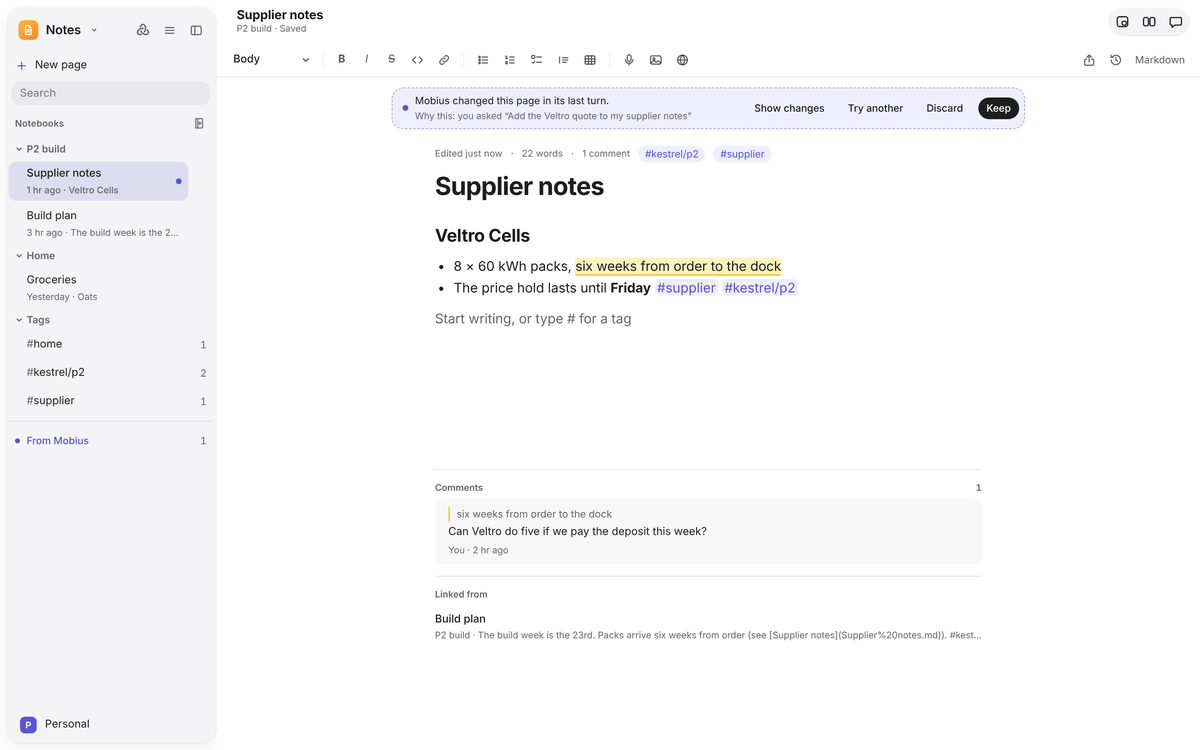
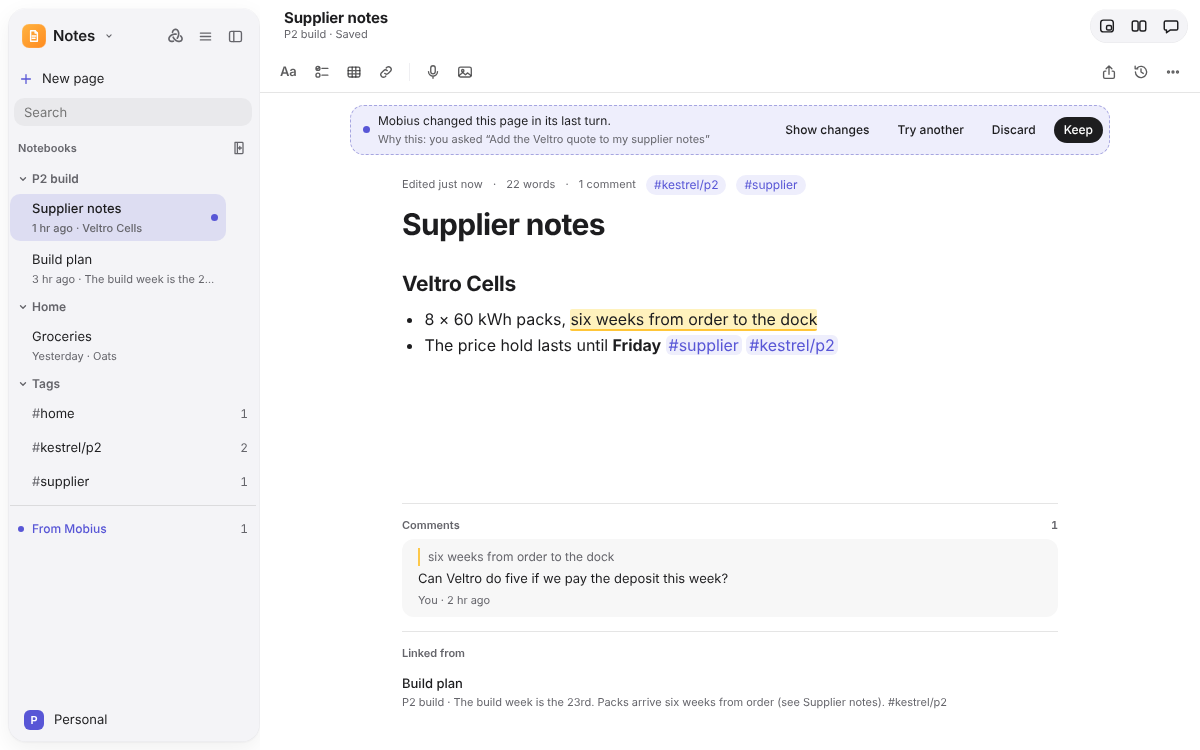
Notes: an Aa panel for styles and marks, a calmer format bar, and the writing hint only on empty pages (#34)
- Aa opens one panel with Title, Heading, Subheading and Body, then bold, italic, strikethrough, code, lists and quote,
  as in Apple Notes. The bar keeps Checklist, Table and Link, then Record and Picture; Share and History stay right.
- A More (...) menu holds Clip a web page and Show Markdown; the Markdown button shows only while that view is on.
- 'Start writing, or type # for a tag' shows only under an empty title, not on the empty line at the end of every page.
- Preview: a page's preview drops link markup, as the Rust list does.
- e2e, docs and the README screenshot follow.

Claude-Session: https://claude.ai/code/session_01VRGwo6hyLbLgse9wLW1PkV

diff --git a/apps/desktop/src/NoteEditor.tsx b/apps/desktop/src/NoteEditor.tsx
@@ -2,6 +2,8 @@ import { EmptyState } from './EmptyState';
 import { newItemIn } from './NotesSidebar';
 import { KEPT_EVENT, keepTurn, keptTurns, turnId } from './ReviewStrip';
 import { useEffect, useMemo, useRef, useState, type FormEvent } from 'react';
+import { createPortal } from 'react-dom';
+import { ContextMenu } from './ContextMenu';
 import { settleGone, settleIn, settleKept } from './settle';
 import { EditorContent, useEditor, useEditorState, type Editor } from '@tiptap/react';
 import { Extension } from '@tiptap/core';
@@ -120,10 +122,17 @@ const STYLES = [
   { id: 'h3', label: 'Subheading' },
 ] as const;
 
+/** The styles in the Aa panel, in the order Apple Notes lists them: biggest first. */
+const STYLES_SHOWN = [STYLES[1], STYLES[2], STYLES[3], STYLES[0]];
+
 /** The Markdown the editor holds, written as people write it: one blank line between blocks, a newline at the end. */
 const markdownOf = (e: Editor) => tidyMarkdown(e.getMarkdown());
 
-/** The format bar's buttons, with what they show as pressed. Off in Markdown, where the marks are typed. */
+/**
+ * The format bar, as in Apple Notes: Aa opens a panel with the text styles and marks, and the bar itself keeps only
+ * what is reached for while writing (checklist, table, link). The buttons show as pressed what the cursor is in.
+ * Off in Markdown, where the marks are typed.
+ */
 function FormatButtons({ editor, onLink }: { editor: Editor; onLink: () => void }) {
   const state = useEditorState({
     editor,
@@ -133,6 +142,14 @@ function FormatButtons({ editor, onLink }: { editor: Editor; onLink: () => void 
       bullet: e.isActive('bulletList'), ordered: e.isActive('orderedList'), task: e.isActive('taskList'), quote: e.isActive('blockquote'), table: e.isActive('table'),
     }),
   });
+  const [panel, setPanel] = useState(false);
+  const wrap = useRef<HTMLDivElement>(null);
+  useEffect(() => {
+    if (!panel) return;
+    const away = (e: PointerEvent) => { if (!wrap.current?.contains(e.target as Node | null)) setPanel(false); };
+    window.addEventListener('pointerdown', away);
+    return () => window.removeEventListener('pointerdown', away);
+  }, [panel]);
   const run = (f: (c: ReturnType<Editor['chain']>) => ReturnType<Editor['chain']>) => () => { f(editor.chain().focus()).run(); };
   const setStyle = (id: string) => {
     const chain = editor.chain().focus();
@@ -140,36 +157,52 @@ function FormatButtons({ editor, onLink }: { editor: Editor; onLink: () => void 
     else chain.setHeading({ level: Number(id.slice(1)) as 1 | 2 | 3 }).run();
   };
   const keep = (e: { preventDefault: () => void }) => e.preventDefault();
+  const marked = state.bold || state.italic || state.strike || state.code || state.style !== 'p' || state.bullet || state.ordered || state.quote;
   return (
     <>
-      <select aria-label="Paragraph style" value={state.style} onChange={(e) => setStyle(e.target.value)}>
-        {STYLES.map((s) => <option key={s.id} value={s.id}>{s.label}</option>)}
-      </select>
-      <span className="doc-tool-sep" />
-      <button type="button" className="doc-tool" aria-label="Bold" aria-pressed={state.bold} title="Bold (Ctrl+B)" onPointerDown={keep} onClick={run((c) => c.toggleBold())}><b>B</b></button>
-      <button type="button" className="doc-tool" aria-label="Italic" aria-pressed={state.italic} title="Italic (Ctrl+I)" onPointerDown={keep} onClick={run((c) => c.toggleItalic())}><i>I</i></button>
-      <button type="button" className="doc-tool" aria-label="Strikethrough" aria-pressed={state.strike} title="Strikethrough (Ctrl+Shift+S)" onPointerDown={keep} onClick={run((c) => c.toggleStrike())}><s>S</s></button>
-      <button type="button" className="doc-tool" aria-label="Code" aria-pressed={state.code} title="Code (Ctrl+E)" onPointerDown={keep} onClick={run((c) => c.toggleCode())}>
-        <svg viewBox="0 0 20 20" aria-hidden="true"><path d="M7.5 6 3.5 10l4 4M12.5 6l4 4-4 4" /></svg>
-      </button>
-      <button type="button" className="doc-tool" aria-label="Link" aria-pressed={state.link} title={state.link ? 'Remove the link' : 'Link'} onPointerDown={keep} onClick={() => (state.link ? editor.chain().focus().unsetLink().run() : onLink())}>
-        <svg viewBox="0 0 20 20" aria-hidden="true"><path d="M8.5 11.5a3 3 0 0 0 4.2 0l2.5-2.5a3 3 0 0 0-4.2-4.2l-.8.8M11.5 8.5a3 3 0 0 0-4.2 0L4.8 11a3 3 0 0 0 4.2 4.2l.8-.8" /></svg>
-      </button>
-      <span className="doc-tool-sep" />
-      <button type="button" className="doc-tool" aria-label="Bulleted list" aria-pressed={state.bullet} title="Bulleted list (Ctrl+Shift+8)" onPointerDown={keep} onClick={run((c) => c.toggleBulletList())}>
-        <svg viewBox="0 0 20 20" aria-hidden="true"><circle cx="5" cy="6" r="1" /><circle cx="5" cy="10" r="1" /><circle cx="5" cy="14" r="1" /><path d="M8.5 6h7M8.5 10h7M8.5 14h7" /></svg>
-      </button>
-      <button type="button" className="doc-tool" aria-label="Numbered list" aria-pressed={state.ordered} title="Numbered list (Ctrl+Shift+7)" onPointerDown={keep} onClick={run((c) => c.toggleOrderedList())}>
-        <svg viewBox="0 0 20 20" aria-hidden="true"><path d="M4 5h1.5v3M4 8h3M4 12.5c.5-.8 2.5-.8 2.5.3 0 .8-2.5 1.5-2.5 2.2h2.6M9.5 6h6M9.5 10h6M9.5 14h6" /></svg>
-      </button>
+      <div className="note-aa" ref={wrap}>
+        <button type="button" className="doc-tool note-aa-btn" aria-label="Format text" title="Styles, bold, italic and lists" aria-haspopup="dialog" aria-expanded={panel} data-marked={marked || undefined} onPointerDown={keep} onClick={() => setPanel((o) => !o)}>
+          <span aria-hidden="true">Aa</span>
+        </button>
+        {panel && (
+          <div className="note-aa-panel glass" role="dialog" aria-label="Text format" onKeyDown={(e) => { if (e.key === 'Escape') { e.stopPropagation(); setPanel(false); editor.commands.focus(); } }}>
+            <div className="note-aa-styles" role="group" aria-label="Paragraph style">
+              {STYLES_SHOWN.map((s) => (
+                <button key={s.id} type="button" className="note-aa-style" data-style={s.id} aria-pressed={state.style === s.id} onPointerDown={keep} onClick={() => setStyle(s.id)}>{s.label}</button>
+              ))}
+            </div>
+            <div className="note-aa-row">
+              <div className="note-aa-group" role="group" aria-label="Marks">
+                <button type="button" className="doc-tool" aria-label="Bold" aria-pressed={state.bold} title="Bold (Ctrl+B)" onPointerDown={keep} onClick={run((c) => c.toggleBold())}><b>B</b></button>
+                <button type="button" className="doc-tool" aria-label="Italic" aria-pressed={state.italic} title="Italic (Ctrl+I)" onPointerDown={keep} onClick={run((c) => c.toggleItalic())}><i>I</i></button>
+                <button type="button" className="doc-tool" aria-label="Strikethrough" aria-pressed={state.strike} title="Strikethrough (Ctrl+Shift+S)" onPointerDown={keep} onClick={run((c) => c.toggleStrike())}><s>S</s></button>
+                <button type="button" className="doc-tool" aria-label="Code" aria-pressed={state.code} title="Code (Ctrl+E)" onPointerDown={keep} onClick={run((c) => c.toggleCode())}>
+                  <svg viewBox="0 0 20 20" aria-hidden="true"><path d="M7.5 6 3.5 10l4 4M12.5 6l4 4-4 4" /></svg>
+                </button>
+              </div>
+              <div className="note-aa-group" role="group" aria-label="Lists">
+                <button type="button" className="doc-tool" aria-label="Bulleted list" aria-pressed={state.bullet} title="Bulleted list (Ctrl+Shift+8)" onPointerDown={keep} onClick={run((c) => c.toggleBulletList())}>
+                  <svg viewBox="0 0 20 20" aria-hidden="true"><circle cx="5" cy="6" r="1" /><circle cx="5" cy="10" r="1" /><circle cx="5" cy="14" r="1" /><path d="M8.5 6h7M8.5 10h7M8.5 14h7" /></svg>
+                </button>
+                <button type="button" className="doc-tool" aria-label="Numbered list" aria-pressed={state.ordered} title="Numbered list (Ctrl+Shift+7)" onPointerDown={keep} onClick={run((c) => c.toggleOrderedList())}>
+                  <svg viewBox="0 0 20 20" aria-hidden="true"><path d="M4 5h1.5v3M4 8h3M4 12.5c.5-.8 2.5-.8 2.5.3 0 .8-2.5 1.5-2.5 2.2h2.6M9.5 6h6M9.5 10h6M9.5 14h6" /></svg>
+                </button>
+                <button type="button" className="doc-tool" aria-label="Quote" aria-pressed={state.quote} title="Quote (Ctrl+Shift+B)" onPointerDown={keep} onClick={run((c) => c.toggleBlockquote())}>
+                  <svg viewBox="0 0 20 20" aria-hidden="true"><path d="M5 6v8M9 7h7M9 10h7M9 13h5" /></svg>
+                </button>
+              </div>
+            </div>
+          </div>
+        )}
+      </div>
       <button type="button" className="doc-tool" aria-label="Checklist" aria-pressed={state.task} title="Checklist (Ctrl+Shift+9)" onPointerDown={keep} onClick={run((c) => c.toggleTaskList())}>
-        <svg viewBox="0 0 20 20" aria-hidden="true"><rect x="3.5" y="4" width="4" height="4" rx="1" /><path d="m4.3 13.2 1 1 1.9-2.2M10 6h6.5M10 13h6.5" /></svg>
-      </button>
-      <button type="button" className="doc-tool" aria-label="Quote" aria-pressed={state.quote} title="Quote (Ctrl+Shift+B)" onPointerDown={keep} onClick={run((c) => c.toggleBlockquote())}>
-        <svg viewBox="0 0 20 20" aria-hidden="true"><path d="M5 6v8M9 7h7M9 10h7M9 13h5" /></svg>
+        <svg viewBox="0 0 20 20" aria-hidden="true"><circle cx="5.5" cy="6" r="2.2" /><path d="m4.4 6 .8.8 1.4-1.6" /><circle cx="5.5" cy="13.5" r="2.2" /><path d="M10 6h6.5M10 13.5h6.5" /></svg>
       </button>
       <button type="button" className="doc-tool" aria-label="Table" aria-pressed={state.table} title={state.table ? 'Delete table' : 'Insert table'} onPointerDown={keep} onClick={run((c) => (state.table ? c.deleteTable() : c.insertTable({ rows: 3, cols: 2, withHeaderRow: true })))}>
         <svg viewBox="0 0 20 20" aria-hidden="true"><rect x="3.5" y="4.5" width="13" height="11" rx="1.5" /><path d="M3.5 8.5h13M3.5 12h13M8 4.5v11M12 4.5v11" /></svg>
+      </button>
+      <button type="button" className="doc-tool" aria-label="Link" aria-pressed={state.link} title={state.link ? 'Remove the link' : 'Link to a note or a web page (or type [[)'} onPointerDown={keep} onClick={() => (state.link ? editor.chain().focus().unsetLink().run() : onLink())}>
+        <svg viewBox="0 0 20 20" aria-hidden="true"><path d="M8.5 11.5a3 3 0 0 0 4.2 0l2.5-2.5a3 3 0 0 0-4.2-4.2l-.8.8M11.5 8.5a3 3 0 0 0-4.2 0L4.8 11a3 3 0 0 0 4.2 4.2l.8-.8" /></svg>
       </button>
       {state.table && (
         <>
@@ -233,7 +266,9 @@ export function NoteEditor({ notes, autoFocus = true, onSelection, review }: { n
       TaskList,
       TaskItem.configure({ nested: true }),
       Markdown,
-      Placeholder.configure({ placeholder: ({ node }) => (node.type.name === 'heading' ? 'Title' : 'Start writing, or type # for a tag') }),
+      // The hints are for a page still to be written: an empty title, and the first line under it. A page with words
+      // in it shows none, so the empty line kept at its end does not read as a prompt.
+      Placeholder.configure({ placeholder: ({ editor: e, node, pos }) => (node.type.name === 'heading' ? (pos === 0 ? 'Title' : '') : e.state.doc.childCount <= 2 ? 'Start writing, or type # for a tag' : '') }),
       NoteTags,
       image,
       commentMarks,
@@ -366,6 +401,7 @@ export function NoteEditor({ notes, autoFocus = true, onSelection, review }: { n
   const caret = useRef<number | null>(null);
   useEffect(() => { caret.current = null; }, [path]);
   const [clipping, setClipping] = useState<string | null>(null);
+  const [more, setMore] = useState<{ x: number; y: number } | null>(null);
   const [linking, setLinking] = useState<string | null>(null);
   const [insertProblem, setInsertProblem] = useState<string | null>(null);
   const recordedFor = useRef(0);
@@ -584,9 +620,6 @@ export function NoteEditor({ notes, autoFocus = true, onSelection, review }: { n
                 <input ref={picker} type="file" multiple hidden aria-label="Choose files to add" onChange={(e) => { const files = [...(e.target.files ?? [])]; e.target.value = ''; void addFiles(files); }} />
               </>
             )}
-            <button type="button" className="doc-tool" aria-label="Clip from web" title="Clip a web page into this page" aria-expanded={clipping !== null} onPointerDown={keep} onClick={() => setClipping((c) => (c === null ? '' : null))}>
-              <svg viewBox="0 0 20 20" aria-hidden="true"><circle cx="10" cy="10" r="6.5" /><path d="M3.5 10h13M10 3.5c-2 2-2.8 4.2-2.8 6.5s.8 4.5 2.8 6.5M10 3.5c2 2 2.8 4.2 2.8 6.5s-.8 4.5-2.8 6.5" /></svg>
-            </button>
           </div>
           <span className="spacer" />
           <div className="note-share">
@@ -614,7 +647,18 @@ export function NoteEditor({ notes, autoFocus = true, onSelection, review }: { n
               <svg viewBox="0 0 20 20" aria-hidden="true"><path d="M3.8 10a6.2 6.2 0 1 0 1.9-4.5M3.5 3.5v3h3M10 6.5V10l2.5 1.6" /></svg>
             </button>
           )}
-          <button type="button" className="doc-tool text note-source" aria-pressed={source} title={source ? 'Show the page formatted' : 'Show and type the Markdown the page is kept as'} onClick={toggleSource}>Markdown</button>
+          {source && <button type="button" className="doc-tool text note-source" aria-pressed title="Show the page formatted" onClick={toggleSource}>Markdown</button>}
+          <button type="button" className="doc-tool" aria-label="More" title="More for this page" aria-haspopup="menu" aria-expanded={more !== null}
+            onClick={(e) => { const r = e.currentTarget.getBoundingClientRect(); setMore((m) => (m ? null : { x: r.right - 220, y: r.bottom + 6 })); }}>
+            <svg viewBox="0 0 20 20" aria-hidden="true"><circle cx="5" cy="10" r="1.1" /><circle cx="10" cy="10" r="1.1" /><circle cx="15" cy="10" r="1.1" /></svg>
+          </button>
+          {more && createPortal(
+            <ContextMenu x={more.x} y={more.y} label="More" onClose={() => setMore(null)} items={[
+              { label: 'Clip a web page…', run: () => setClipping('') },
+              { label: source ? 'Show formatted' : 'Show Markdown', run: toggleSource, separated: true },
+            ]} />,
+            document.body,
+          )}
           {clipping !== null && (
             <form className="note-clip" onSubmit={(e) => { e.preventDefault(); if (clipping.trim()) void clip(clipping); }}>
               <input autoFocus aria-label="Address to clip" placeholder="Paste a link" value={clipping} onChange={(e) => setClipping(e.target.value)} onKeyDown={(e) => { if (e.key === 'Escape') setClipping(null); }} />

diff --git a/apps/desktop/src/notes.css b/apps/desktop/src/notes.css
@@ -158,3 +158,22 @@
 .note-comment-replies { list-style: none; margin: 4px 0 0 10px; padding: 0 0 0 10px; border-left: 1px solid var(--hairline, var(--line)); display: grid; gap: 6px; }
 .note-comment-reply { display: grid; gap: 2px; font-size: var(--fs-sm); }
 .note-comment-reply .note-comment-who { color: var(--muted); font-size: var(--fs-xs); }
+
+/* Aa: the text styles and marks in one panel under the bar, as in Apple Notes. The bar keeps what is used while writing. */
+.note-aa { position: relative; display: inline-flex; }
+.note-editor .note-format .note-aa-btn { font-weight: 600; font-size: var(--fs-md); letter-spacing: -0.01em; padding: 0 8px; }
+.note-editor .note-format .note-aa-btn[aria-expanded="true"] { color: var(--accent); background: color-mix(in srgb, var(--accent) 13%, transparent); }
+.note-aa-panel { position: absolute; top: calc(100% + 8px); left: 0; z-index: 20; width: 272px; display: grid; gap: 10px; padding: 10px; border-radius: 14px; border: 0.5px solid var(--hairline); box-shadow: 0 12px 32px rgba(0, 0, 0, 0.16), 0 1px 3px rgba(0, 0, 0, 0.08); animation: note-sheet-in var(--dur-fast) var(--ease); }
+.note-aa-styles { display: grid; gap: 1px; }
+.note-aa-style { text-align: left; padding: 5px 10px; border-radius: 8px; color: var(--ink); line-height: 1.25; transition: background-color var(--dur-fast) var(--ease); }
+.note-aa-style:hover { background: color-mix(in srgb, var(--ink) 7%, transparent); }
+.note-aa-style[aria-pressed="true"] { background: color-mix(in srgb, var(--accent) 14%, transparent); color: var(--accent); }
+.note-aa-style[data-style="h1"] { font-size: 20px; font-weight: 700; letter-spacing: -0.01em; }
+.note-aa-style[data-style="h2"] { font-size: 16px; font-weight: 700; }
+.note-aa-style[data-style="h3"] { font-size: var(--fs-md); font-weight: 600; }
+.note-aa-style[data-style="p"] { font-size: var(--fs-md); }
+.note-aa-row { display: flex; gap: 8px; }
+.note-aa-group { flex: 1; display: flex; justify-content: space-between; padding: 2px; border-radius: 10px; background: color-mix(in srgb, var(--ink) 6%, transparent); }
+.note-aa-group .doc-tool { flex: 1; color: var(--ink); border-radius: 8px; }
+.note-aa-group .doc-tool:hover { background: color-mix(in srgb, var(--ink) 8%, transparent); }
+.note-aa-group .doc-tool[aria-pressed="true"] { color: var(--accent); background: var(--bg); box-shadow: 0 1px 2px rgba(0, 0, 0, 0.12); }

diff --git a/apps/desktop/e2e/notes.spec.ts b/apps/desktop/e2e/notes.spec.ts
@@ -142,7 +142,7 @@ test('if the agent changes the page while the person is typing, nothing is lost 
   expect(onDisk('Work', 'Plan.md')).toBe('# Plan mine!\n');
 });
 
-test('the format bar makes a checklist you tick, and Insert clips a web page where the cursor is', async () => {
+test('the format bar makes a checklist you tick, and More clips a web page where the cursor is', async () => {
   await start();
   await newNotebook('Trip');
   await retitle('Offsite');
@@ -161,8 +161,9 @@ test('the format bar makes a checklist you tick, and Insert clips a web page whe
   await shell().keyboard.press('End');
   await shell().keyboard.press('Enter');
   await shell().keyboard.press('Enter');
-  const insert = format().getByRole('group', { name: 'Insert' });
-  await insert.getByRole('button', { name: 'Clip from web' }).click();
+  // Clipping is in the bar's More menu.
+  await format().getByRole('button', { name: 'More' }).click();
+  await shell().getByRole('menu', { name: 'More' }).getByRole('menuitem', { name: 'Clip a web page…' }).click();
   await format().getByRole('textbox', { name: 'Address to clip' }).fill(`${fixture.origin}/casa-amora`);
   await format().getByRole('button', { name: 'Clip', exact: true }).click();
   await expect(text().locator('blockquote')).toContainText('Nine rooms in Príncipe Real.');
@@ -202,7 +203,8 @@ test('the Markdown view shows the file as it is kept, and typing there is saved'
   await start();
   await side().getByRole('button', { name: 'Plan', exact: true }).click();
   await expect(text().getByRole('checkbox', { name: 'Task item checkbox for Call Sam' })).not.toBeChecked();
-  await format().getByRole('button', { name: 'Markdown' }).click();
+  await format().getByRole('button', { name: 'More' }).click();
+  await shell().getByRole('menu', { name: 'More' }).getByRole('menuitem', { name: 'Show Markdown' }).click();
   await expect(source()).toHaveValue('# Plan\n\n- [ ] Call Sam\n');
   await source().press('Control+End');
   await source().pressSequentially('- [x] Book the sled\n');

diff --git a/apps/desktop/src/bridge/preview.ts b/apps/desktop/src/bridge/preview.ts
@@ -55,7 +55,7 @@ const NOTES = () => [
   { name: 'Home', pages: [notePage('Home/Groceries.md', now - 30 * hour)] },
 ];
 /** The first line under the title, as the Rust list gives it (roughly: enough for the preview). */
-const previewOf = (text: string) => (text.split('\n').map((l) => l.trim()).filter((l) => l && !l.startsWith('# ') && !l.startsWith('|'))[0] ?? '').replace(/^#+\s*|^[-*] (\[[ x]\] )?/g, '').replace(/[*_`]/g, '').slice(0, 120);
+const previewOf = (text: string) => (text.split('\n').map((l) => l.trim()).filter((l) => l && !l.startsWith('# ') && !l.startsWith('|'))[0] ?? '').replace(/^#+\s*|^[-*] (\[[ x]\] )?/g, '').replace(/!?\[([^\]]*)\]\([^)]*\)/g, '$1').replace(/[*_`]/g, '').slice(0, 120);
 /** One turn of Mobius's, still waiting to be kept, so the dashed proposals and Why this can be looked at. */
 const TURN = { start: 'abc1234', end: null, when: now - 5 * 60_000, ask: 'Add the Veltro quote to my supplier notes', files: ['notes/P2 build/Supplier notes.md', 'tasks/P2 build.md', 'docs/P2 build/Build brief.md', 'sheets/P2 budget/Sheet 1.csv'] };
 

diff --git a/docs/design/workspace-layout.md b/docs/design/workspace-layout.md
@@ -83,9 +83,9 @@ The apps on the canvas, each keeping its data as ordinary files other apps can o
 - **Calendar** (`calendar/*.ics`): day, week and month; subscribed links and CalDAV accounts (iCloud, Fastmail,
   Nextcloud) beside the person's own calendars; Mobius's suggestions dashed with Decline and Add. Google and Microsoft
   sign-in need app registrations ([calendar sign-in](../reference/calendar-sign-in.md)).
-- **Notes** Insert bar (from the Notebook board): a checklist or a table at the cursor, Record (up to ten minutes,
-  turned into words by the speech model and kept as a section), and Clip from web (a page's first paragraphs quoted
-  with its link).
+- **Notes** format bar: Aa (styles and marks in one panel), a checklist, a table or a link at the cursor, Record (up
+  to ten minutes, turned into words by the speech model and kept as a section), and in the ⋯ menu Clip a web page (a
+  page's first paragraphs quoted with its link) and the Markdown view.
 - **Docs** (`docs/<folder>/*.md`): a page with formatting, an outline, writing tools, and the agent's changes as
   proposals in the page.
 - **Sheets** (`sheets/<workbook>/*.csv`): formulas worked out in Rust for the window and the agent alike; cells the

diff --git a/docs/apps/write-and-plan.md b/docs/apps/write-and-plan.md
@@ -9,7 +9,9 @@ Quick pages, saved as you type.
 - **Notebooks** in the sidebar, newest pages first, with search, **Pinned** pages at the top and a **Tags** section
   built from every `#tag` you write.
 - **Formatted as you write**: headings, lists, checklists you tick, tables, pictures, links between notes, and
-  recordings (up to ten minutes). The **Markdown** button shows the file itself.
+  recordings (up to ten minutes). As in Apple Notes, **Aa** opens the text styles (Title, Heading, Subheading, Body),
+  bold, italic, strikethrough, code, lists and quote; the bar keeps Checklist, Table and Link at hand. The **⋯** menu
+  clips a web page into the note and shows the Markdown file itself.
 - **History** lists earlier versions by day, compares one with the page now, and **Restore** puts it back (and can be
   undone the same way).
 - **Share** copies the page, exports it as a web page or Markdown, or prints it.
